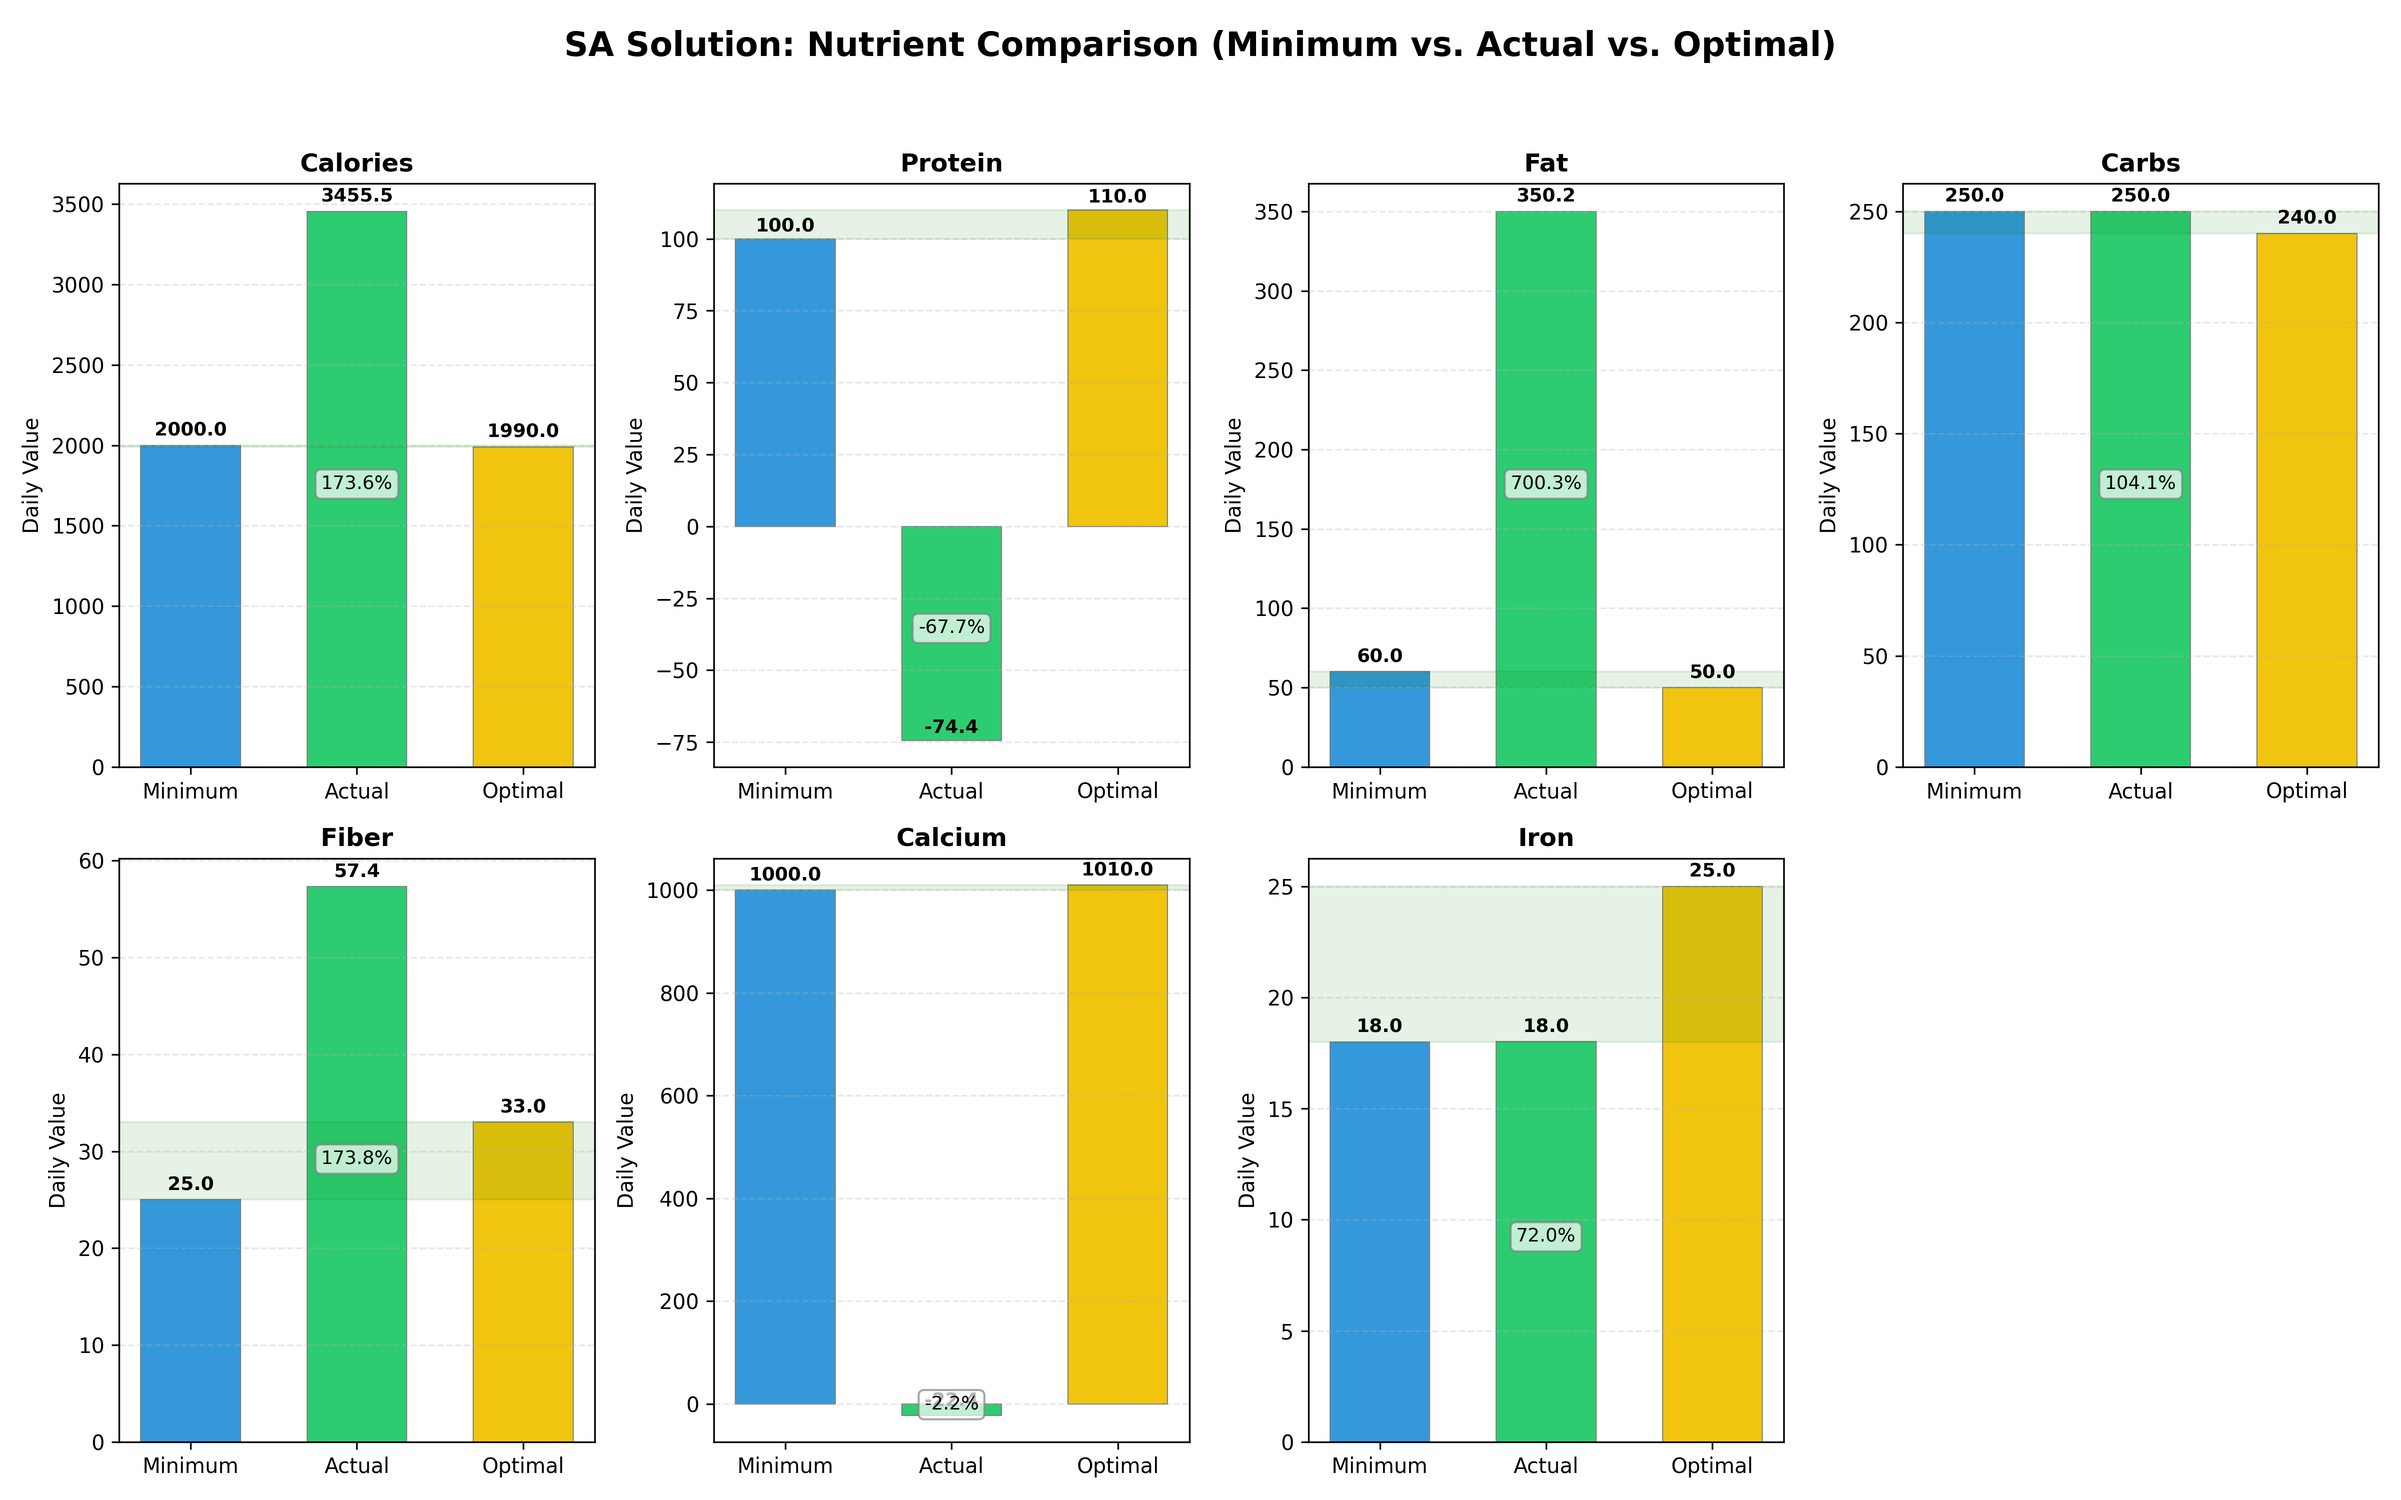
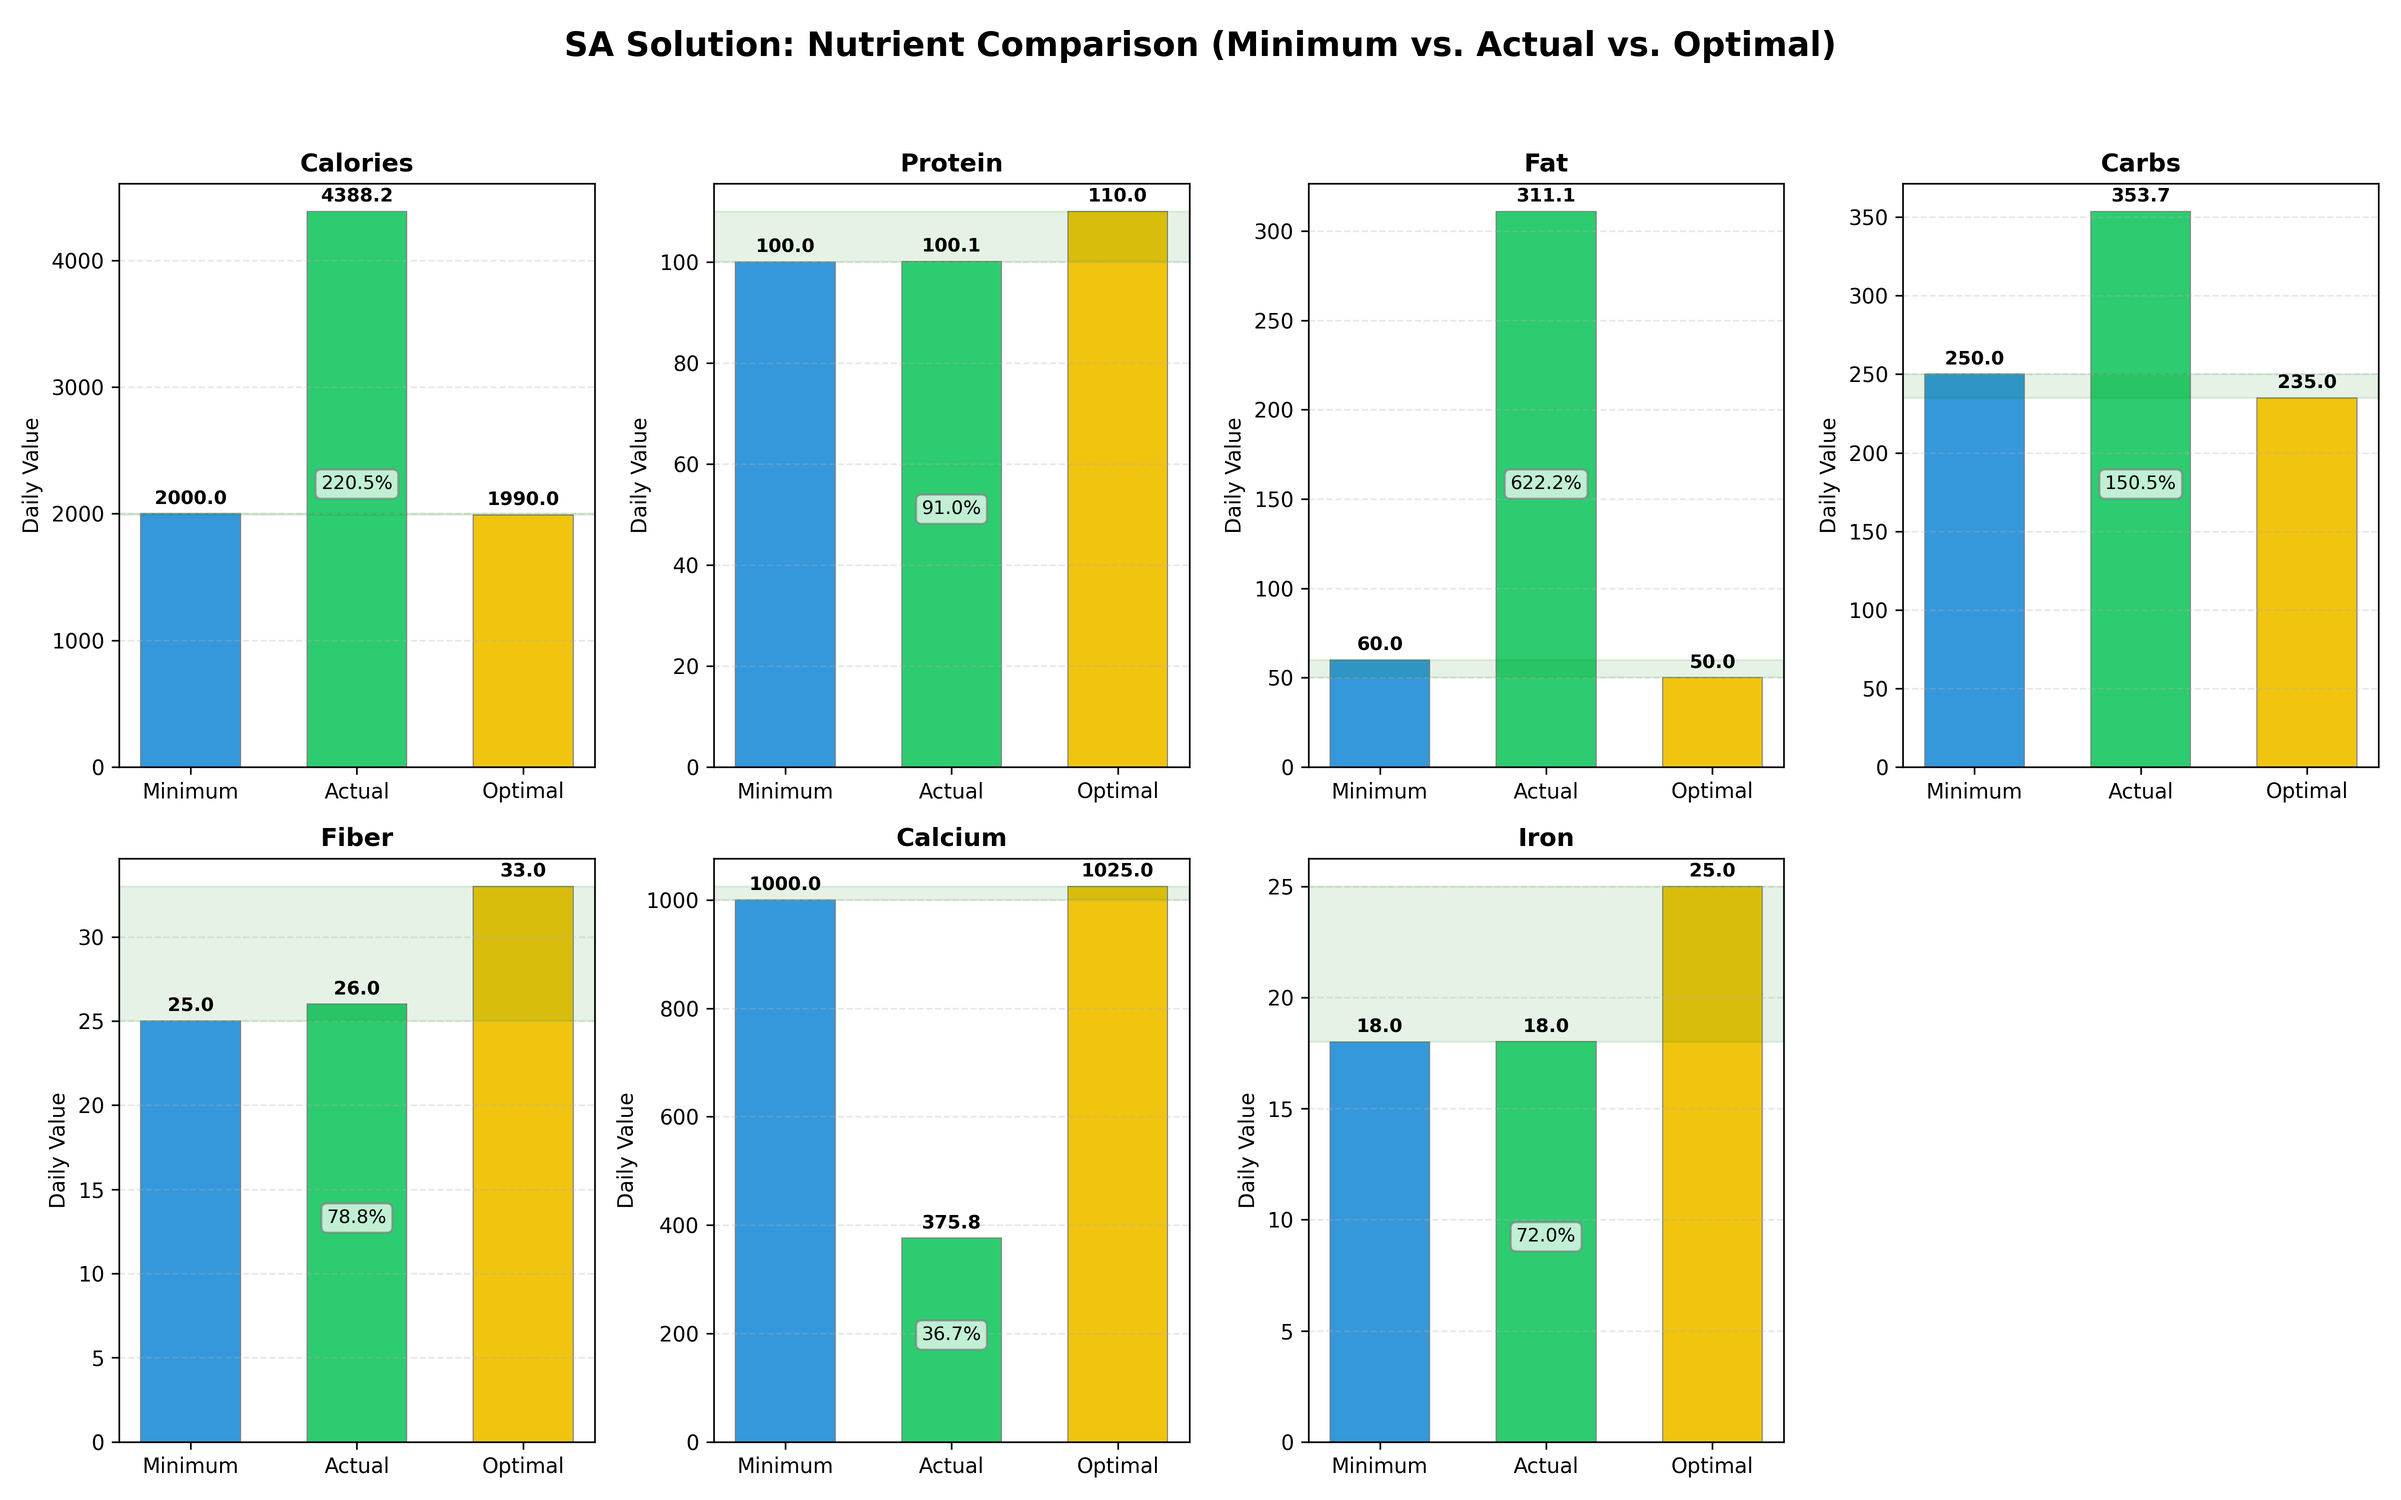
testing...

diff --git a/diet_sa/simulated_annealing.py b/diet_sa/simulated_annealing.py
@@ -42,9 +42,9 @@ class SimulatedAnnealing:
             'calories': 1990,   # Less calories for weight management 
             'protein': 110,     # More protein for muscle strength
             'fat': 50,          # Less fat for healthy diet
-            'carbs': 240,       # Less carbs to control sugar intake
+            'carbs': 235,       # Less carbs to control sugar intake
             'fiber': 33,        # More fiber for digestion
-            'calcium': 1010,    # More calcium for strong bones
+            'calcium': 1025,    # More calcium for strong bones
             'iron': 25,         # More iron to prevent anemia
         }
         optimal = {nut: val * 30 for nut, val in optimal_daily.items()}
@@ -52,12 +52,12 @@ class SimulatedAnnealing:
         # 
         # Nutrient importance weights
         weights = {
-            'calories': 5.5,
+            'calories': 1.5,
             'protein': 2.5,
-            'fat': 5.5,
-            'carbs': 5.5,
-            'fiber': 2.5,
-            'calcium': 2.0,
+            'fat': 1.5,
+            'carbs': 1.5,
+            'fiber': 3.5,
+            'calcium': 3.0,
             'iron': 3.0,
         }
         
